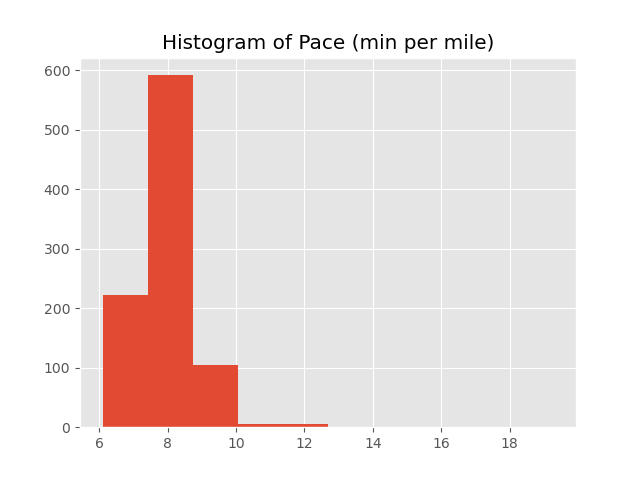
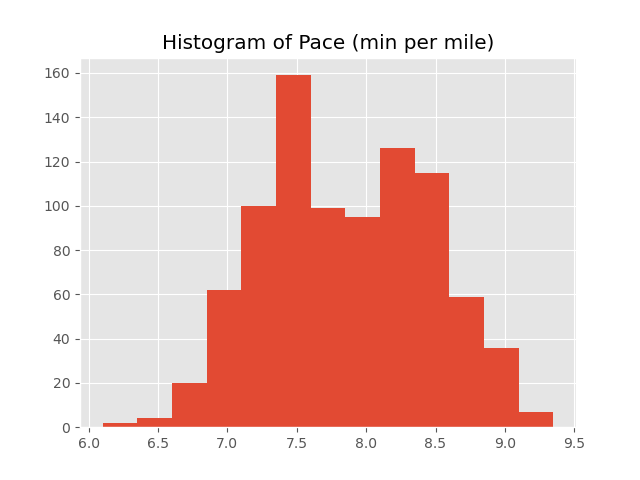
adjusted histogram bin size

diff --git a/plot.py b/plot.py
@@ -5,6 +5,7 @@ import matplotlib.pyplot as plt
 import load
 import os
 import data_manipulations
+import numpy as np
 
 
 def main():
@@ -28,17 +29,16 @@ def distribution(df, variable):
 
 	df = df.dropna(subset=variable)	
 
-	#variable = "Average Pace (min/mile)"
-
 	if variable == 'Average Pace (min/mile)':
 		data_manipulations.convert_pace(df)
 		variable = 'Pace (min per mile)'
 
-	print(df[variable])
+	q2 = df[variable].quantile(0.95)
+	df = df[df[variable] < q2]
 
 	plt.style.use('ggplot')
-	#df.plot.hist(by=[variable], bins=10)
-	df.hist(column=variable, bins=10)
+	binwidth = 0.25
+	df.hist(column=variable, bins=np.arange(min(df[variable]), max(df[variable]) + binwidth, binwidth))
 
 	plt.title('Histogram of ' + variable)
 	
